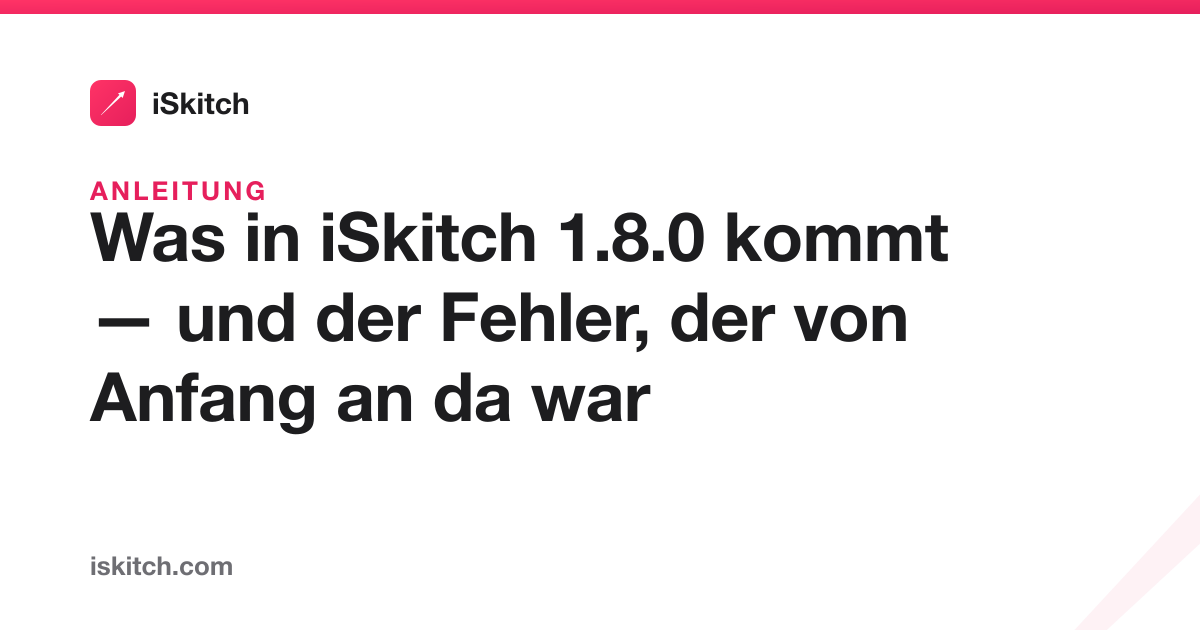
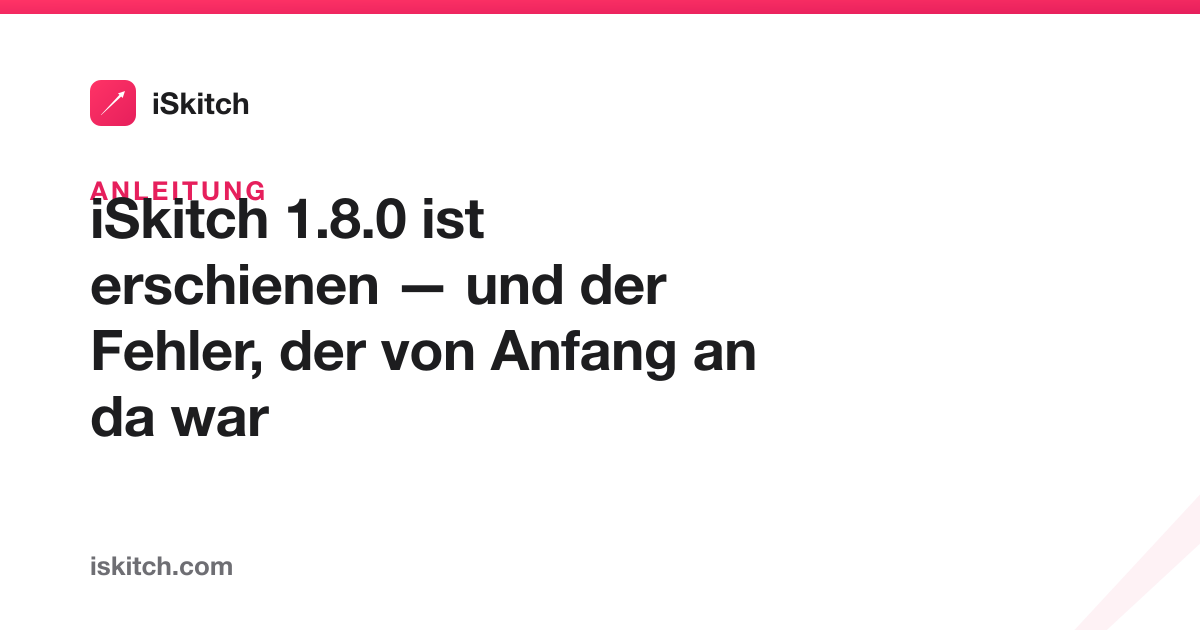
Título del post 1.8.0: «ya disponible» en los 8 idiomas
Decía «lo que llega» / «what's coming» y la versión ya está publicada.
Imágenes OG regeneradas, que llevan el título rasterizado.

Changed region(s): [[0.0617, 0.3016, 0.8017, 0.6937]]

diff --git a/src/content/blog/ja/iskitch-1-8-0.md b/src/content/blog/ja/iskitch-1-8-0.md
@@ -1,5 +1,5 @@
 ---
-title: "iSkitch 1.8.0 で来るもの、そして最初からあった不具合"
+title: "iSkitch 1.8.0 公開、そして最初からあった不具合"
 description: "ウインドウのキャプチャは、一度もウインドウを撮っていませんでした。それを直したことで、影、透明な背景、本物のグローバルショートカット、サイズ変更、GIF と BMP の書き出しが実現しました。"
 lang: "ja"
 pubDate: 2026-08-26

diff --git a/src/content/blog/de/iskitch-1-8-0.md b/src/content/blog/de/iskitch-1-8-0.md
@@ -1,5 +1,5 @@
 ---
-title: "Was in iSkitch 1.8.0 kommt — und der Fehler, der von Anfang an da war"
+title: "iSkitch 1.8.0 ist erschienen — und der Fehler, der von Anfang an da war"
 description: "Ein Fenster aufnehmen hat nie ein Fenster aufgenommen. Das zu beheben machte den Weg frei für Schatten, transparenten Hintergrund, echte globale Kurzbefehle, Größenänderung und Export als GIF und BMP."
 lang: "de"
 pubDate: 2026-08-26

diff --git a/src/content/blog/pt/iskitch-1-8-0.md b/src/content/blog/pt/iskitch-1-8-0.md
@@ -1,5 +1,5 @@
 ---
-title: "O que chega no iSkitch 1.8.0, e o erro que estava lá desde o primeiro dia"
+title: "O iSkitch 1.8.0 já está disponível, e o erro que estava lá desde o primeiro dia"
 description: "Capturar uma janela nunca capturou uma janela. Corrigi-lo abriu a porta à sombra, ao fundo transparente, aos atalhos globais a sério, ao redimensionamento e à exportação para GIF e BMP."
 lang: "pt"
 pubDate: 2026-08-26

diff --git a/src/content/blog/es/iskitch-1-8-0.md b/src/content/blog/es/iskitch-1-8-0.md
@@ -1,5 +1,5 @@
 ---
-title: "Lo que llega en iSkitch 1.8.0, y el fallo que llevaba ahí desde el primer día"
+title: "iSkitch 1.8.0 ya está disponible, y el fallo que llevaba ahí desde el primer día"
 description: "Capturar una ventana nunca capturó una ventana. Arreglarlo abrió la puerta a la sombra, el fondo transparente, los atajos globales de verdad, redimensionar y exportar a GIF y BMP."
 lang: "es"
 pubDate: 2026-08-26

diff --git a/src/content/blog/fr/iskitch-1-8-0.md b/src/content/blog/fr/iskitch-1-8-0.md
@@ -1,5 +1,5 @@
 ---
-title: "Ce qui arrive dans iSkitch 1.8.0, et le bug qui était là depuis le début"
+title: "iSkitch 1.8.0 est disponible, et le bug qui était là depuis le début"
 description: "Capturer une fenêtre ne capturait jamais une fenêtre. Le corriger a ouvert la voie à l'ombre, au fond transparent, aux vrais raccourcis globaux, au redimensionnement et à l'export GIF et BMP."
 lang: "fr"
 pubDate: 2026-08-26

diff --git a/src/content/blog/it/iskitch-1-8-0.md b/src/content/blog/it/iskitch-1-8-0.md
@@ -1,5 +1,5 @@
 ---
-title: "Cosa arriva in iSkitch 1.8.0, e il bug che c'era dal primo giorno"
+title: "iSkitch 1.8.0 è disponibile, e il bug che c'era dal primo giorno"
 description: "Catturare una finestra non ha mai catturato una finestra. Sistemarlo ha aperto la strada all'ombra, allo sfondo trasparente, alle vere scorciatoie globali, al ridimensionamento e all'esportazione in GIF e BMP."
 lang: "it"
 pubDate: 2026-08-26

diff --git a/src/content/blog/ko/iskitch-1-8-0.md b/src/content/blog/ko/iskitch-1-8-0.md
@@ -1,5 +1,5 @@
 ---
-title: "iSkitch 1.8.0에서 오는 것들, 그리고 처음부터 있던 결함"
+title: "iSkitch 1.8.0 출시, 그리고 처음부터 있던 결함"
 description: "창 캡처는 한 번도 창을 캡처한 적이 없었습니다. 그것을 고치자 그림자, 투명한 배경, 진짜 전역 단축키, 크기 조절, GIF와 BMP 내보내기의 길이 열렸습니다."
 lang: "ko"
 pubDate: 2026-08-26

diff --git a/src/content/blog/en/iskitch-1-8-0.md b/src/content/blog/en/iskitch-1-8-0.md
@@ -1,5 +1,5 @@
 ---
-title: "What's Coming in iSkitch 1.8.0 — and the Bug That Was There All Along"
+title: "iSkitch 1.8.0 Is Out — and the Bug That Was There All Along"
 description: "Capturing a window never actually captured a window. Fixing that opened the door to shadows, transparent backgrounds, real global shortcuts, resizing, and GIF and BMP export."
 lang: "en"
 pubDate: 2026-08-26
